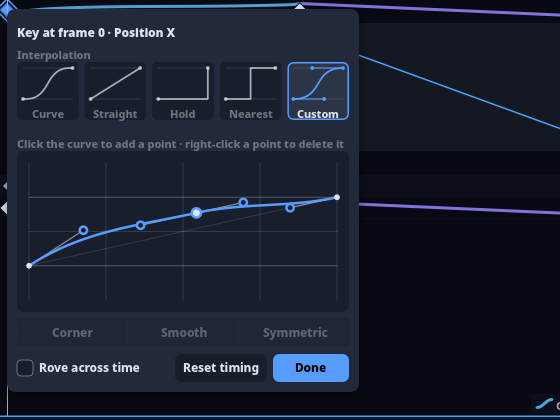
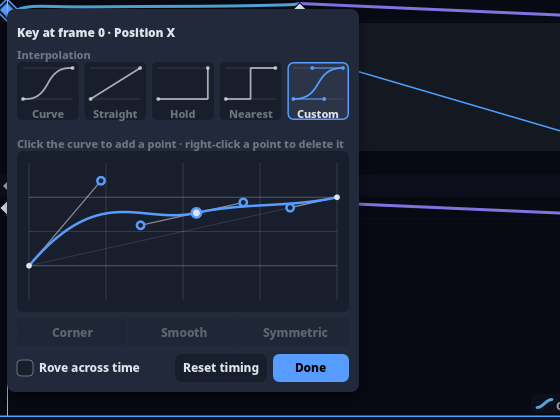
fix(timeline): a banda do valor contém cada nó e alça de uma Custom com pontos (smoke do dono 15/11, passo 3)
drawn_extent saltava todo trecho que não fosse Bezier/BezierW e todo trecho retimado: a
ponta do braço de uma Spline acima da curva (y = 1,3) ficava fora da banda — escondida e
sem alvo (paint_handles não regista alvo fora da banda). graph_pontos::custom_drawn_values
dá o valor de cada nó, h_in e h_out pelo mapa do ritmo; drawn_extent inclui-os para toda
Spline (com ou sem ritmo). Provas: a_faixa_contem_cada_alca_da_custom_com_pontos (timeline)
e a_ponta_do_braco_acima_da_curva_continua_a_vista_e_agarravel (seam, painel pintado) —
os dois vermelhos com o bloco desligado. Foto: pontos_r3b.

diff --git a/crates/ph2d-timeline/src/graph_pontos.rs b/crates/ph2d-timeline/src/graph_pontos.rs
@@ -92,6 +92,21 @@ pub fn value_handle_points(k0: &KeyView, k1: &KeyView) -> [(f64, f64); 2] {
     crate::graph::segment_handle_points(k0, k1)
 }
 
+/// Os valores de tudo o que a vista de valor desenha de uma Custom com pontos: cada nó e as duas
+/// alças dele (as das pontas são os braços das chaves). A faixa da banda tem de os conter.
+pub(crate) fn custom_drawn_values(k0: &KeyView, k1: &KeyView) -> Vec<f64> {
+    let Some(c) = segment_curve(k0, k1) else {
+        return Vec::new();
+    };
+    (0..c.node_count())
+        .flat_map(|i| {
+            let n = c.node(i);
+            [n.p, n.h_in, n.h_out]
+        })
+        .map(|p| unit_to_plane(k0, k1, p).1)
+        .collect()
+}
+
 /// A `Interp` de uma curva editada: sem pontos volta a ser a `Bezier` de duas alças.
 #[must_use]
 pub fn interp_of_curve(c: EaseSpline) -> Interp {
@@ -251,6 +266,34 @@ mod tests {
         let mut sem = k0.clone();
         sem.interp = Interp::bezier(0.3, 0.1, 0.6, 0.9);
         assert!(!end_handle_keeps_rhythm(&sem, &k1), "sem pontos = Override");
+    }
+
+    /// Smoke do dono 15/11: a ponta do braço de uma Custom com pontos acima da curva (`y = 1,3`)
+    /// ficava FORA da banda — nem se via nem se agarrava. A faixa que o gráfico ajusta contém
+    /// cada nó e cada alça, com ou sem ritmo.
+    #[test]
+    fn a_faixa_contem_cada_alca_da_custom_com_pontos() {
+        let mut sp = EaseSpline::from_bezier(0.3, 0.0, 0.7, 1.0);
+        let i = sp.insert(0.5).expect("cabe");
+        sp.move_handle(i, ph2d_anim::SplineSide::Out, 0.7, -0.4);
+        let sp = sp.with_end_handles([0.06, 1.3], sp.end_handles().1);
+        for retime in [None, Some(RITMO)] {
+            let (mut k0, k1) = (
+                key(0.0, 0.0, Interp::Spline(sp)),
+                key(2.0, 10.0, Interp::Linear),
+            );
+            k0.selected = true;
+            k0.retime = retime;
+            let (lo, hi) = crate::drawn_extent(&[k0.clone(), k1.clone()], 0.0, 2.0, 64).unwrap();
+            for v in custom_drawn_values(&k0, &k1) {
+                assert!(
+                    v as f32 >= lo - 1e-4 && v as f32 <= hi + 1e-4,
+                    "{retime:?}: {v} fora de {lo}..{hi}"
+                );
+            }
+            assert!(hi >= 12.9, "{retime:?}: a ponta do braço (13) fora: {hi}");
+            assert!(lo <= -3.9, "{retime:?}: a alça do ponto (−4) fora: {lo}");
+        }
     }
 
     #[test]

diff --git a/crates/ph2d-panel-timeline/tests/it/curve_points_seam.rs b/crates/ph2d-panel-timeline/tests/it/curve_points_seam.rs
@@ -236,3 +236,32 @@ fn num_trecho_retimado_com_pontos_o_braco_da_ponta_mantem_ritmo_e_pontos() {
     );
     set_current_timeline(None);
 }
+
+/// Smoke do dono 15/11 (passo 3): a ponta do braço da 1.ª chave, puxada acima da curva, ficou fora
+/// da banda — escondida e sem alvo. Pintado de verdade: o alvo do braço existe, dentro da banda.
+#[test]
+fn a_ponta_do_braco_acima_da_curva_continua_a_vista_e_agarravel() {
+    let Interp::Spline(c) = com_ponto() else {
+        unreachable!()
+    };
+    let alta = Interp::Spline(c.with_end_handles([0.06, 1.3], c.end_handles().1));
+    for retime in [None, Some(RITMO)] {
+        let mut host = MockPanelHost::with_panel::<TimelinePanel>();
+        let mut st = TimelinePanelState::default();
+        let regs = pinta_r(&mut host, &mut st, alta, retime);
+        let braco = regs
+            .iter()
+            .find(|(w, _)| *w == ids::timeline_handle_hit_id(TGT, 1, 0))
+            .map(|(_, r)| *r);
+        let linha = regs
+            .iter()
+            .find(|(w, _)| *w == ids::timeline_curve_line_hit_id(TGT, 1, 0))
+            .map(|(_, r)| *r);
+        assert!(
+            braco.is_some(),
+            "{retime:?}: o braço acima da curva ficou sem alvo (fora da banda)"
+        );
+        assert!(linha.is_some(), "{retime:?}: a curva não se pintou");
+        set_current_timeline(None);
+    }
+}

diff --git a/crates/ph2d-timeline/src/graph.rs b/crates/ph2d-timeline/src/graph.rs
@@ -112,6 +112,14 @@ pub fn drawn_extent(keys: &[KeyView], t0: f64, t1: f64, samples: usize) -> Optio
         // steep preset (Expo, Back) would drag the whole band's fit out to
         // meet a hint, squashing the curve the author came to look at. Those
         // get clipped instead.
+        // A Custom with points draws every node and handle (retimed or not, through the rhythm
+        // map): each tip must be inside the band, or it can be neither seen nor grabbed (dono 15/11).
+        if let Interp::Spline(_) = k0.interp {
+            for v in crate::graph_pontos::custom_drawn_values(k0, k1) {
+                include(v as f32);
+            }
+            continue;
+        }
         // A retimed segment's handles are derived and already inside its played values.
         if k0.retime.is_some()
             || !matches!(k0.interp, Interp::Bezier { .. } | Interp::BezierW { .. })
